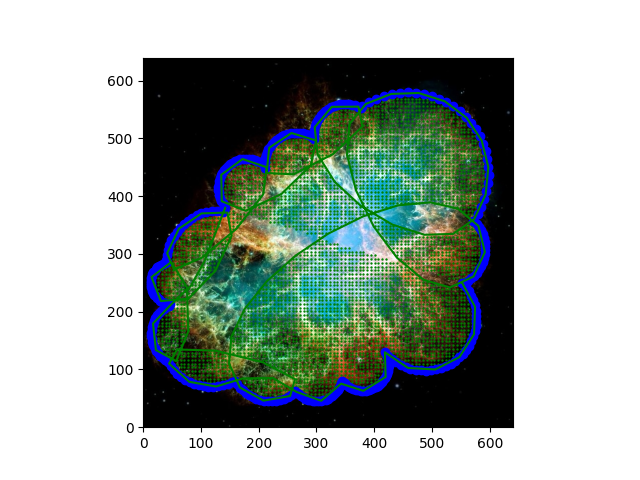
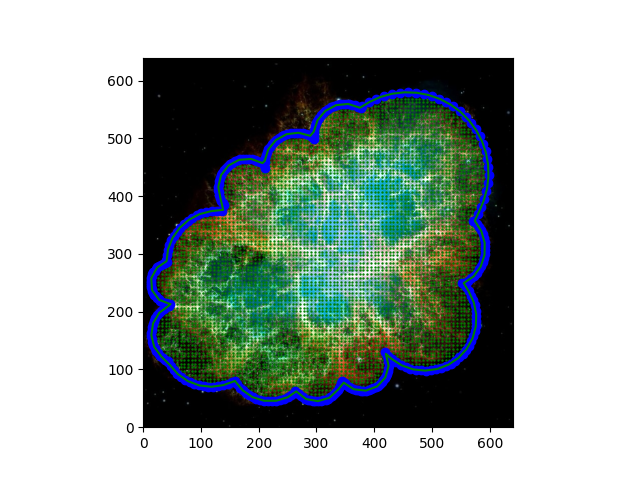
я сделала 3 этап

diff --git a/my_project_stage_3/my_nebula.py b/my_project_stage_3/my_nebula.py
@@ -18,47 +18,16 @@ x = np.array([])
 y = np.array([])
 
 
-x = np.append(x, [142, 139])
-y = np.append(y, [380, 373])
-
-
 coords = circle(54, 68, 162, np.pi/2+np.pi/7, 3*np.pi/2.2, 0.1)
 x = np.append(x, coords[0])
 y = np.append(y, coords[1])
 
-coords = circle(37, 50, 250, np.pi/3+np.pi/4, 3*np.pi/2, 0.1)
+coords = circle(85, 117, 155, np.pi+np.pi/6, 2*np.pi-np.pi/3, 0.1)
 x = np.append(x, coords[0])
 y = np.append(y, coords[1])
 
-coords = circle(90, 180, 280, np.pi/np.pi+0.5, 2*np.pi-np.pi/1.01, 0.1)
-x = np.append(x, coords[0] - 50) 
-y = np.append(y, coords[1] + 5)  
-
-coords = circle(50, 230, 410, np.pi/np.pi+0.01, 2*np.pi-np.pi/1.3, 0.1)
-x = np.append(x, coords[0] - 50)
-y = np.append(y, coords[1] + 5)
-
-coords = circle(55, 315, 450, np.pi/np.pi+0.05, 2*np.pi-np.pi/1.05, 0.1)
-x = np.append(x, coords[0] - 50)
-y = np.append(y, coords[1] + 5)
-
-coords = circle(55, 400, 500, np.pi/np.pi+0.05, 2*np.pi-np.pi/1.05, 0.1)
-x = np.append(x, coords[0] - 50)
-y = np.append(y, coords[1] + 5)
-
-coords = circle(140, 458, 440, 2*np.pi-np.pi/5, 2*np.pi+np.pi/1.4, 0.1)
-x = np.append(x, coords[0])
-y = np.append(y, coords[1])
-
-coords = circle(70, 522, 310, 2*np.pi-np.pi/3, 2*np.pi+np.pi/4, 0.1)
-x = np.append(x, coords[0])
-y = np.append(y, coords[1])
 
 coords = circle(70, 220, 115, np.pi+np.pi/6, 2*np.pi-np.pi/3.5, 0.1)
-x = np.append(x, coords[0])
-y = np.append(y, coords[1])
-
-coords = circle(85, 117, 155, np.pi+np.pi/6, 2*np.pi-np.pi/3, 0.1)
 x = np.append(x, coords[0])
 y = np.append(y, coords[1])
 
@@ -74,6 +43,38 @@ coords = circle(90, 487, 188, np.pi+np.pi/4.5, 2*np.pi+np.pi/4, 0.1)
 x = np.append(x, coords[0])
 y = np.append(y, coords[1])
 
+coords = circle(70, 522, 310, 2*np.pi-np.pi/3, 2*np.pi+np.pi/4, 0.1)
+x = np.append(x, coords[0])
+y = np.append(y, coords[1])
+
+coords = circle(140, 458, 440, 2*np.pi-np.pi/5, 2*np.pi+np.pi/1.4, 0.1)
+x = np.append(x, coords[0])
+y = np.append(y, coords[1])
+
+coords = circle(55, 400, 500, np.pi/np.pi+0.05, 2*np.pi-np.pi/1.05, 0.1)
+x = np.append(x, coords[0] - 50)
+y = np.append(y, coords[1] + 5)
+
+coords = circle(55, 315, 450, np.pi/np.pi+0.05, 2*np.pi-np.pi/1.05, 0.1)
+x = np.append(x, coords[0] - 50)
+y = np.append(y, coords[1] + 5)
+
+
+
+
+
+
+coords = circle(50, 230, 410, np.pi/np.pi+0.01, 2*np.pi-np.pi/1.3, 0.1)
+x = np.append(x, coords[0] - 50)
+y = np.append(y, coords[1] + 5)
+
+coords = circle(90, 180, 280, np.pi/np.pi+0.5, 2*np.pi-np.pi/1.01, 0.1)
+x = np.append(x, coords[0] - 50) 
+y = np.append(y, coords[1] + 5)
+
+coords = circle(37, 50, 250, np.pi/3+np.pi/4, 3*np.pi/2, 0.1)
+x = np.append(x, coords[0])
+y = np.append(y, coords[1])
 
 spline_coords, figure_spline_part = interpolate.splprep([x, y], s=0)
 spline_curve = interpolate.splev(np.linspace(0, 1, 100), spline_coords)
